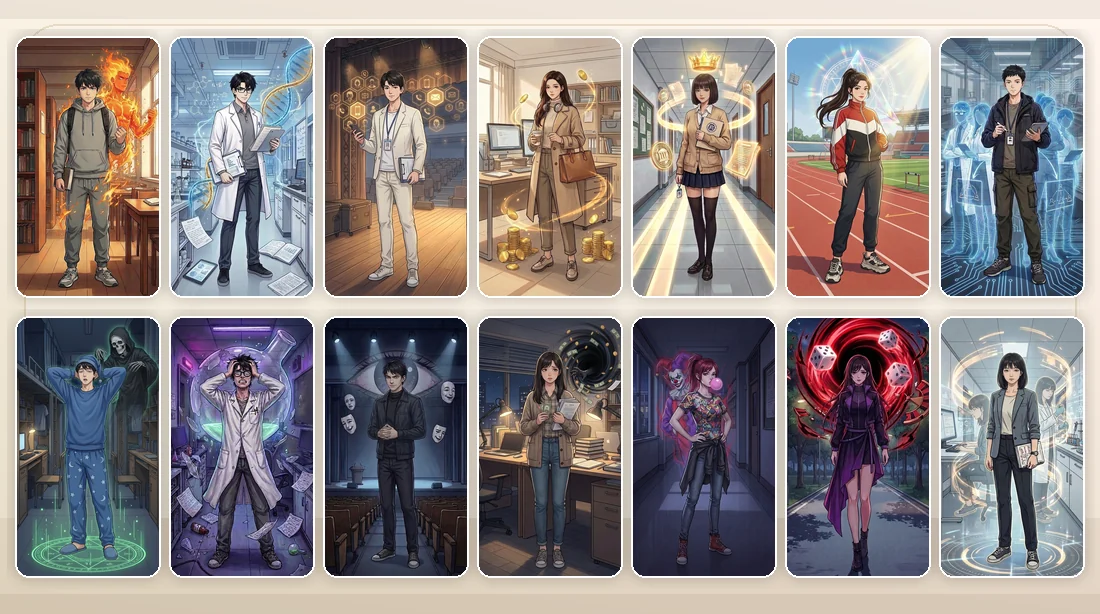
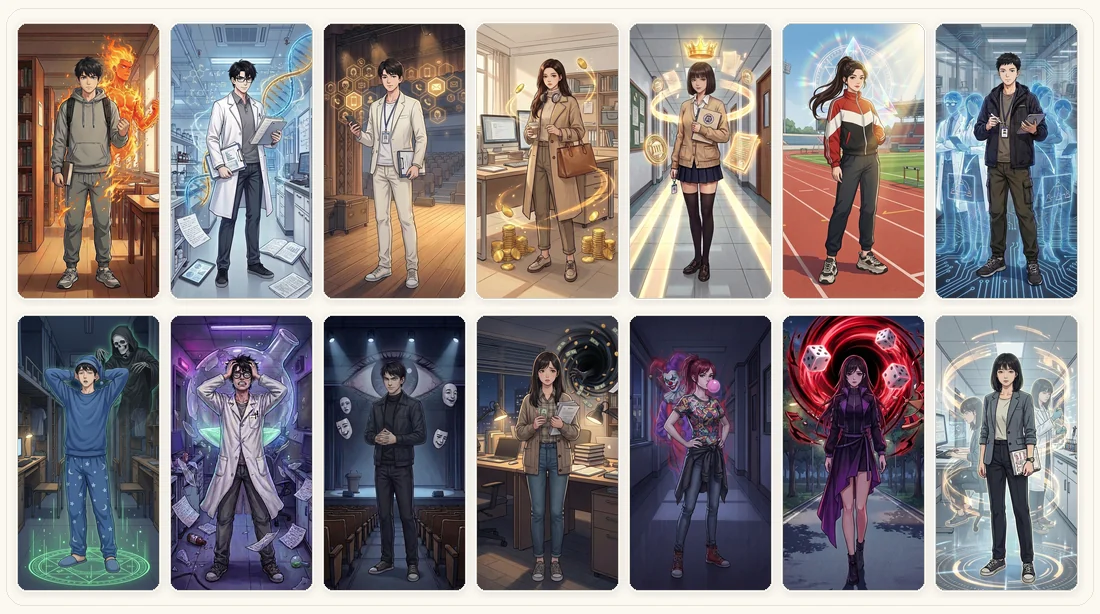
Polish project cards and game descriptions

diff --git a/assets/css/main.scss b/assets/css/main.scss
@@ -203,6 +203,16 @@
     }
 }
 
+.featured-button.is-disabled {
+    border-color: #dbe2e6;
+    background: #f8fafb;
+    color: #94a3ad;
+    box-shadow: none;
+    cursor: not-allowed;
+    opacity: 0.78;
+    pointer-events: none;
+}
+
 .featured-nav {
     display: none;
 }
@@ -2744,7 +2754,7 @@ body.is-fixed-scale-home:not(.is-mobile-home-layout) .linkup-shell .sidebar-tool
     --hub-accent-border: #b7d2d0;
     --hub-card-bg: #ffffff;
     --hub-card-wash: #f7fbfa;
-    --hub-card-inset: clamp(0.55rem, 1.1vw, 0.78rem);
+    --hub-card-inset: clamp(0.38rem, 0.82vw, 0.56rem);
     --hub-ink: #1d3440;
     --hub-muted: #5d737b;
     --hub-media-ratio: 16 / 10;
@@ -2757,7 +2767,7 @@ body.is-fixed-scale-home:not(.is-mobile-home-layout) .linkup-shell .sidebar-tool
 }
 
 .project-hub--figures {
-    --hub-media-ratio: 16 / 9;
+    --hub-media-ratio: 2.05 / 1;
     --hub-accent: #3d8b88;
     --hub-accent-2: #c7a048;
     --hub-card-wash: #f3f8f7;
@@ -2823,9 +2833,9 @@ body.is-fixed-scale-home:not(.is-mobile-home-layout) .linkup-shell .sidebar-tool
     max-width: calc(100% - var(--hub-card-inset) - var(--hub-card-inset));
     overflow: hidden;
     margin: var(--hub-card-inset) var(--hub-card-inset) 0;
-    border: 1px solid rgba(131, 156, 160, 0.2);
-    border-radius: 0.46rem;
-    background: linear-gradient(135deg, #ffffff 0%, var(--hub-card-wash) 100%);
+    border: 0;
+    border-radius: 0.42rem;
+    background: transparent;
     text-decoration: none !important;
 }
 
@@ -2841,7 +2851,7 @@ body.is-fixed-scale-home:not(.is-mobile-home-layout) .linkup-shell .sidebar-tool
     min-width: 0;
     object-fit: contain;
     object-position: center center;
-    padding: clamp(0.35rem, 1.2vw, 0.74rem);
+    padding: clamp(0.16rem, 0.56vw, 0.34rem);
     transform: scale(1);
     filter: saturate(1.02) contrast(1.01);
     transition:
@@ -2850,7 +2860,7 @@ body.is-fixed-scale-home:not(.is-mobile-home-layout) .linkup-shell .sidebar-tool
 }
 
 .project-hub--figures .project-card__media img {
-    padding: clamp(0.38rem, 1vw, 0.62rem);
+    padding: clamp(0.16rem, 0.5vw, 0.32rem);
 }
 
 .project-card__body {
@@ -2899,6 +2909,11 @@ body.is-fixed-scale-home:not(.is-mobile-home-layout) .linkup-shell .sidebar-tool
     text-decoration: none;
 }
 
+.project-hub--figures .project-card__kicker {
+    padding: 0.3rem 0.72rem 0.34rem;
+    font-size: 0.78rem;
+}
+
 .project-card h2 {
     flex: 1 1 auto;
     min-width: 0;
@@ -2935,7 +2950,8 @@ body.is-fixed-scale-home:not(.is-mobile-home-layout) .linkup-shell .sidebar-tool
     padding-top: 0;
 }
 
-.project-card__actions a {
+.project-card__actions a,
+.project-card__action {
     display: inline-flex;
     align-items: center;
     justify-content: center;
@@ -2956,6 +2972,16 @@ body.is-fixed-scale-home:not(.is-mobile-home-layout) .linkup-shell .sidebar-tool
         box-shadow 0.2s ease,
         border-color 0.2s ease,
         color 0.2s ease;
+}
+
+.project-card__action.is-disabled {
+    border-color: #dbe2e6;
+    background: #f8fafb;
+    color: #94a3ad;
+    box-shadow: none;
+    cursor: not-allowed;
+    opacity: 0.78;
+    pointer-events: none;
 }
 
 .project-card__actions a:first-child {
@@ -2997,7 +3023,7 @@ body.is-fixed-scale-home:not(.is-mobile-home-layout) .linkup-shell .sidebar-tool
 
 @media (max-width: 640px) {
     .project-hub {
-        --hub-card-inset: 0.45rem;
+        --hub-card-inset: 0.34rem;
         width: calc(100% - 1.2rem);
         max-width: 25rem;
         padding-top: 1.1rem;
@@ -3027,7 +3053,8 @@ body.is-fixed-scale-home:not(.is-mobile-home-layout) .linkup-shell .sidebar-tool
         justify-content: flex-end;
     }
 
-    .project-card__actions a {
+    .project-card__actions a,
+    .project-card__action {
         flex: 0 0 auto;
     }
 }
@@ -3040,7 +3067,7 @@ body.is-fixed-scale-home:not(.is-mobile-home-layout) .linkup-shell .sidebar-tool
 
     .project-card__media img,
     .project-hub--figures .project-card__media img {
-        padding: 0.32rem;
+        padding: 0.18rem;
     }
 
     .project-card__body {
@@ -3048,7 +3075,8 @@ body.is-fixed-scale-home:not(.is-mobile-home-layout) .linkup-shell .sidebar-tool
         padding: 0.52rem 0.62rem 0.68rem;
     }
 
-    .project-card__actions a {
+    .project-card__actions a,
+    .project-card__action {
         min-height: 1.9rem;
         padding: 0.3rem 0.62rem 0.34rem;
     }
@@ -3057,7 +3085,8 @@ body.is-fixed-scale-home:not(.is-mobile-home-layout) .linkup-shell .sidebar-tool
 @media (prefers-reduced-motion: reduce) {
     .project-card,
     .project-card__media img,
-    .project-card__actions a {
+    .project-card__actions a,
+    .project-card__action {
         animation: none;
         transition-duration: 0.01ms;
     }

diff --git a/_pages/games.md b/_pages/games.md
@@ -20,7 +20,7 @@ page_class: project-hub-page
             <a href="https://github.com/kw66/PhD_Simulator" target="_blank" rel="noopener noreferrer" aria-label="查看研究生模拟器v1.0项目">项目</a>
           </div>
         </div>
-        <p>研究生日常主题的网页小游戏初版。</p>
+        <p>研究生日常模拟游戏，要管理科研、生活和导师关系，发表论文并顺利毕业。</p>
       </div>
     </article>
 
@@ -33,9 +33,10 @@ page_class: project-hub-page
           <h2>研究生模拟器v2.0</h2>
           <div class="project-card__actions">
             <a href="https://kw-game-graduate-simulator-v2.vercel.app/" target="_blank" rel="noopener noreferrer" aria-label="游玩研究生模拟器v2.0">游玩</a>
+            <span class="project-card__action is-disabled" aria-disabled="true">项目</span>
           </div>
         </div>
-        <p>研究生日常主题的网页小游戏新版。</p>
+        <p>多角色研究生模拟游戏，要选择身份开局，写论文、参加会议并完成毕业目标。</p>
       </div>
     </article>
 
@@ -51,7 +52,7 @@ page_class: project-hub-page
             <a href="https://github.com/kw66/photo-hero" target="_blank" rel="noopener noreferrer" aria-label="查看图片勇者项目">项目</a>
           </div>
         </div>
-        <p>围绕图片理解和互动展开的轻量网页游戏。</p>
+        <p>照片装备爬塔游戏，要拍照或画出身边小物，把它们鉴定成装备后闯塔。</p>
       </div>
     </article>
 
@@ -67,7 +68,7 @@ page_class: project-hub-page
             <a href="https://github.com/kw66/kw-chess" target="_blank" rel="noopener noreferrer" aria-label="查看科王象棋项目">项目</a>
           </div>
         </div>
-        <p>中国象棋题材的网页小游戏项目。</p>
+        <p>象棋剧情游戏，要在人机大战中下棋、推进剧情，并见证棋魂觉醒。</p>
       </div>
     </article>
   </div>

diff --git a/_pages/about.md b/_pages/about.md
@@ -50,6 +50,7 @@ redirect_from:
           <p class='featured-item-title'>&#127918; &#30740;&#31350;&#29983;&#27169;&#25311;&#22120;v2.0</p>
           <div class='featured-actions'>
             <a class='featured-button' href='https://kw-game-graduate-simulator-v2.vercel.app/' target='_blank' rel='noopener noreferrer'>游玩</a>
+            <span class='featured-button is-disabled' aria-disabled='true'>项目</span>
           </div>
         </div>
       </article>
